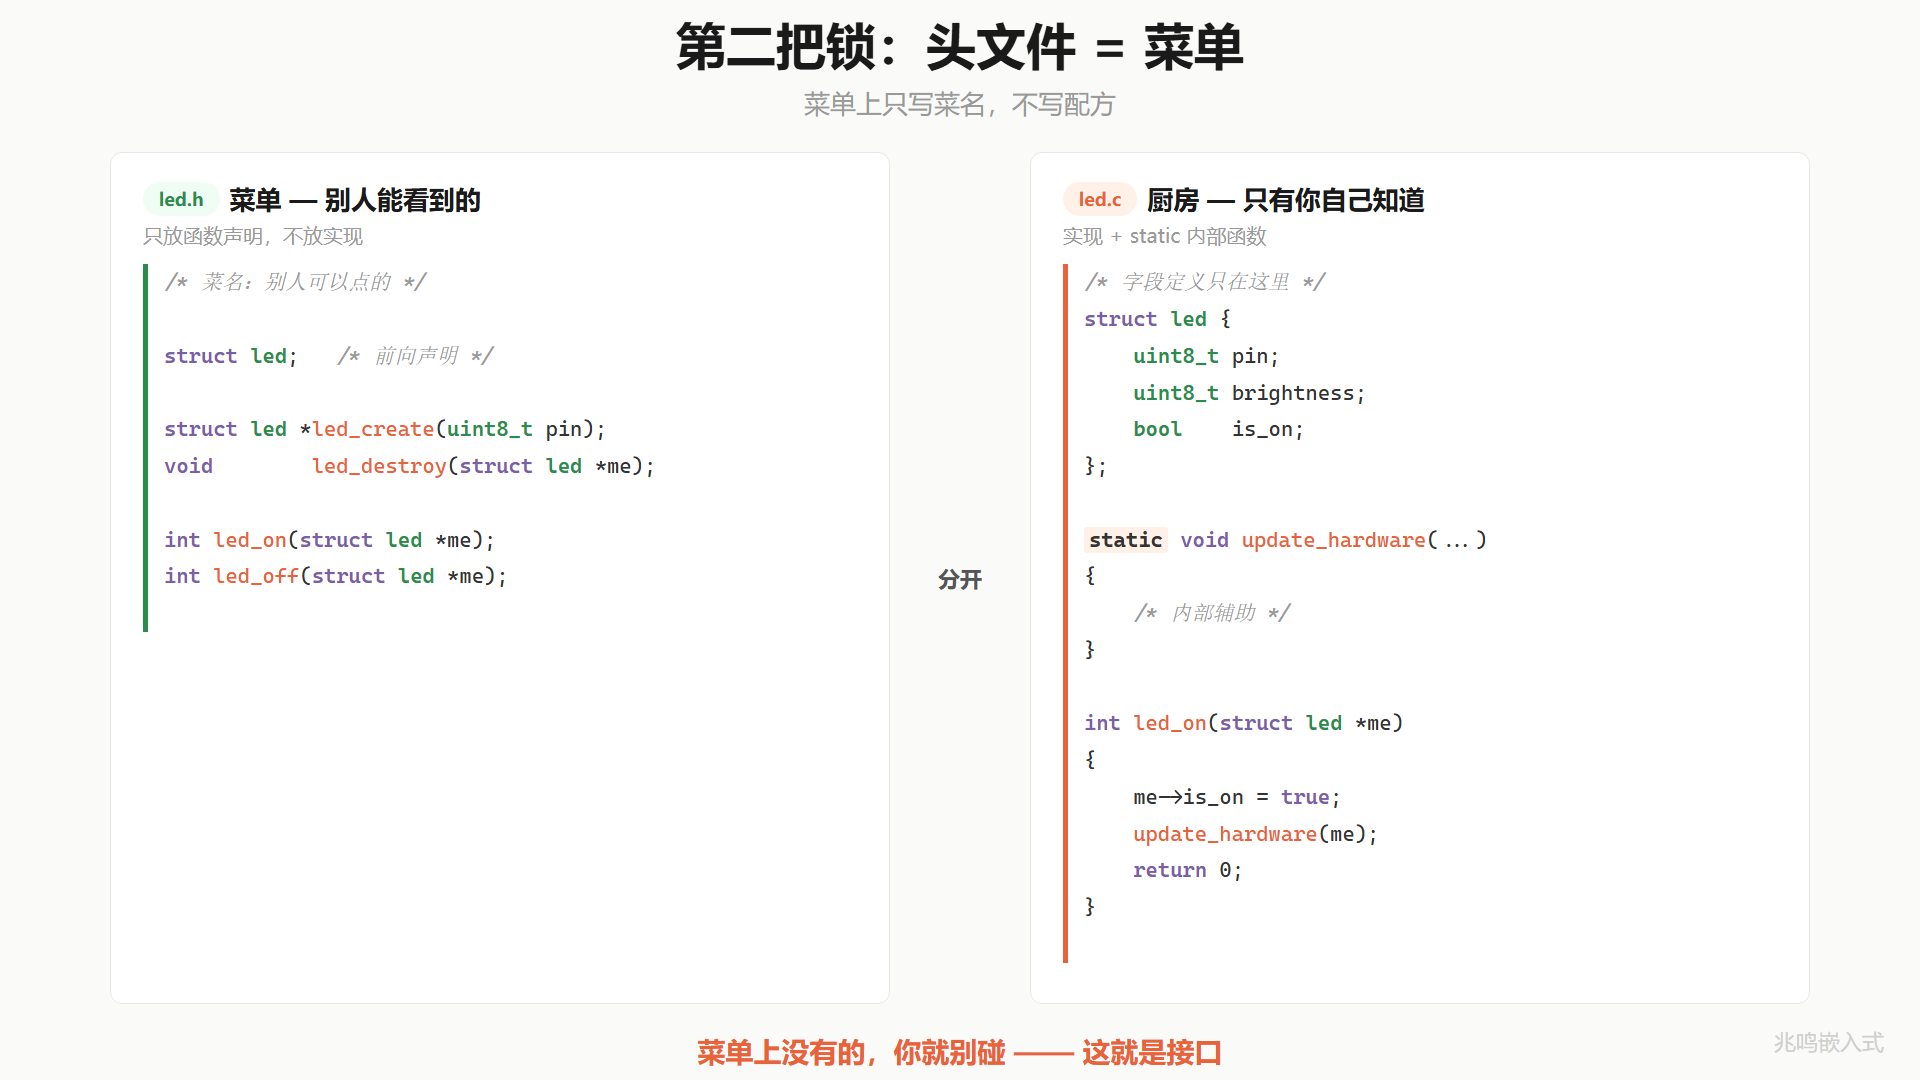
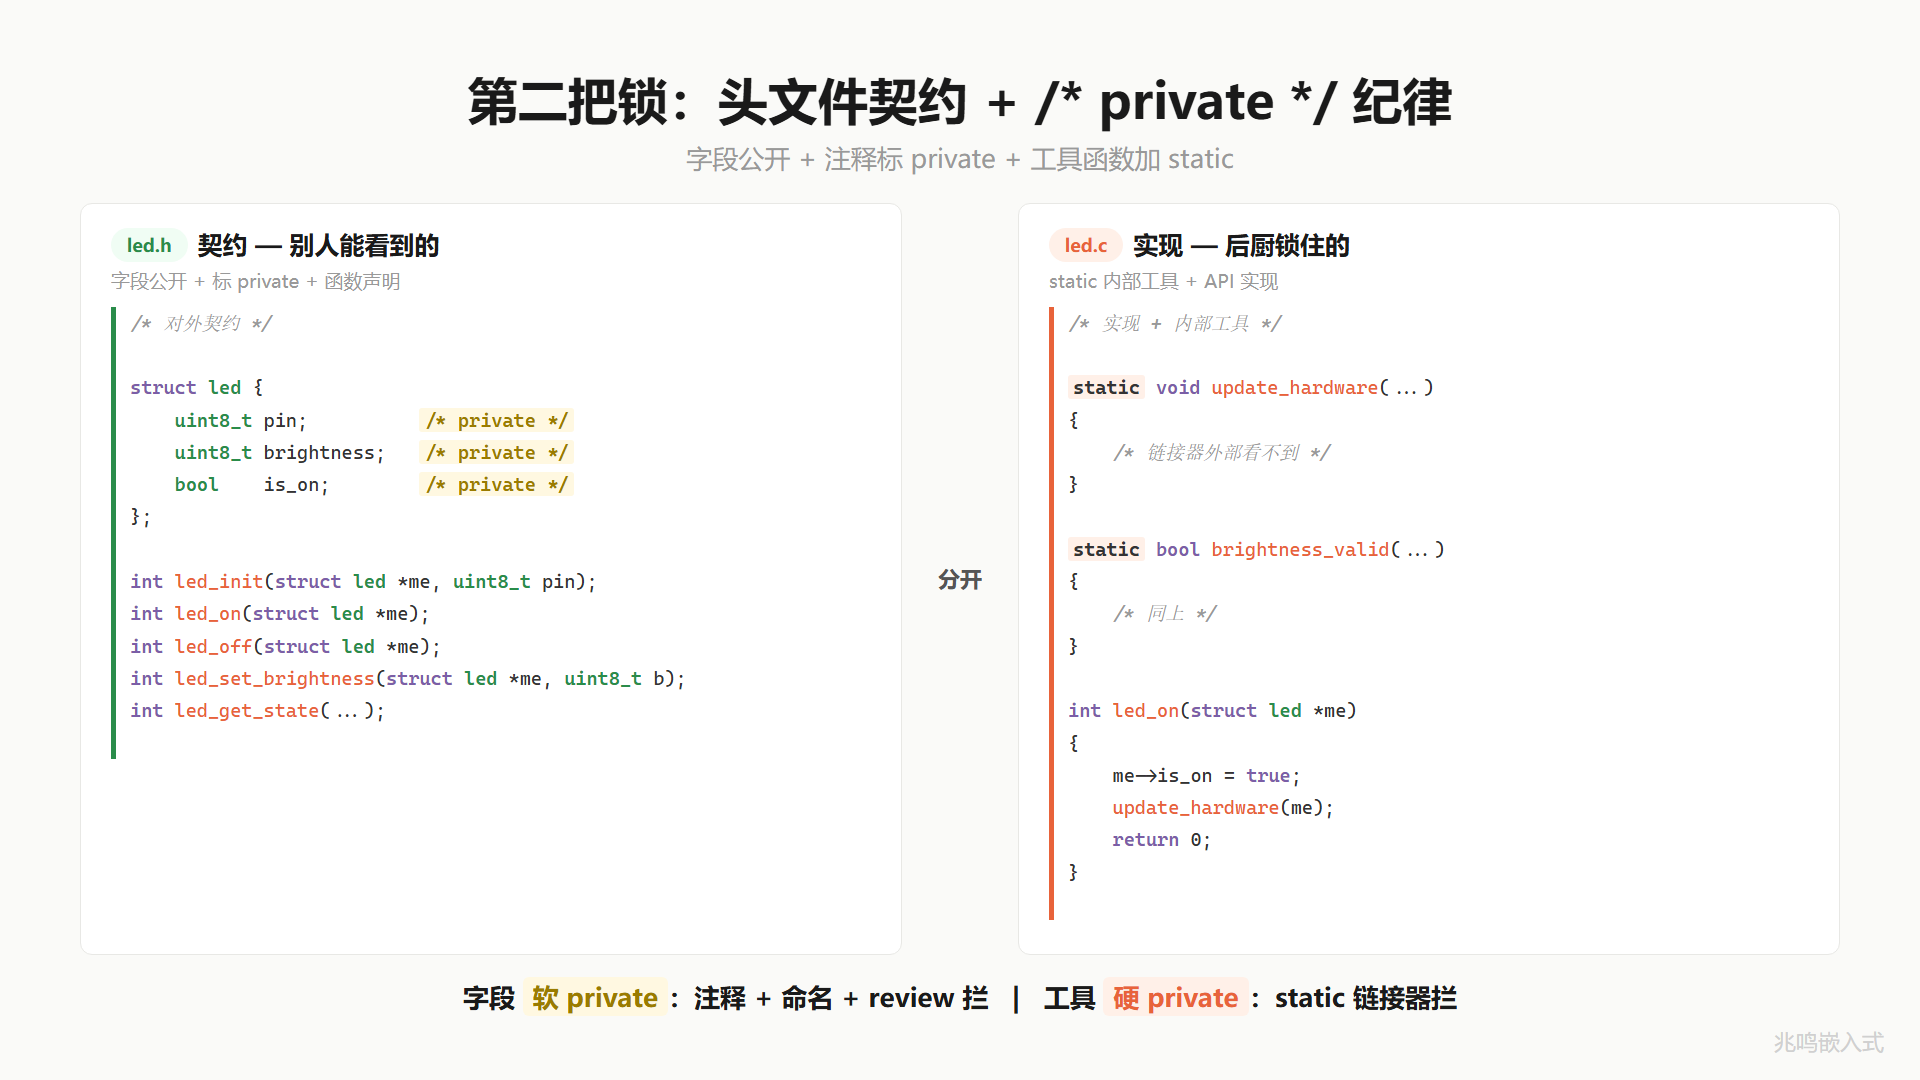
更新内容

diff --git a/book/04-工程威力/15-Platform抽象.md b/book/04-工程威力/15-Platform抽象.md
@@ -760,7 +760,7 @@ Platform 层 platform_*.c      物理操作
 
 中间件不是凭空多出来的"过度设计"。它的判据是：**当业务语义和硬件操作不是一对一映射的时候**，中间件就值得引入。"报警 → 三盏灯协同（红灯主报、绿灯熄灭、蜂鸣器响 1 秒）"是一对多映射，写在 app 里 app 就有了硬件知识，写在 led.c 里 led.c 就有了业务知识，都不对。中间件吸收这个错配。
 
-ch15 的配套代码没有中间件层（教学简化），ch19 的工业实战章会展开一个完整的 indicator 中间件案例。
+ch15 的配套代码没有中间件层（教学简化）。ch19 的工业实战章会列出主控板用到的几个中间件库（环形缓冲、shell、日志、按键），看一眼工业代码里这一层是什么形态。
 
 ### 15.10.10 platform_ops 的字段规模
 
@@ -802,7 +802,7 @@ struct platform_ops {
 
 20-30 个字段。每家芯片提供一份完整实现。
 
-字段太多了拆不拆？看你项目。SOLID 接口隔离原则会建议拆成 `gpio_ops / i2c_ops / spi_ops / ...` 多个小表。Linux 内核走的就是这条路（没有一个大 platform_ops，而是一堆 subsystem 各自的 ops 表）。本书 ch16 会展开 Linux 的多个 ops 表。
+字段太多了拆不拆？看你项目。SOLID 接口隔离原则会建议拆成 `gpio_ops / i2c_ops / spi_ops / ...` 多个小表。Linux 内核走的就是这条路（没有一个大 platform_ops，而是一堆 subsystem 各自的 ops 表）。本书 ch16 会展开 Linux 的两组典型 ops 表（`gpio_chip` / `file_operations`）。
 
 ## 15.11 你现在的代码在 STM32 上长什么样
 

diff --git a/book/03-多态/11-多态完整图景.md b/book/03-多态/11-多态完整图景.md
@@ -150,7 +150,7 @@ void platform_gpio_deinit(uint8_t pin);
 bool platform_gpio_read(uint8_t pin);
 ```
 
-每章的 STM32 / Linux snippet 都告诉你这是教学简化版。真正工业级 platform 抽象用 ops 表。第 11 章演化出 vptr 之后，就把这个承诺兑现。
+每章的 STM32 / Linux snippet 都告诉你这是教学简化版。真正工业级 platform 抽象用 ops 表。本章演化出 vptr 之后，就把这个承诺兑现。
 
 兑现的方式有讲究：**对外**这 4 个函数签名一字不动，**对内**从直接实现演化成 ops dispatch。驱动层、应用层永远只看到这 4 个签名，看不到下面的 ops 表。
 

diff --git a/book/05-工业实战/20-子控案例.md b/book/05-工业实战/20-子控案例.md
@@ -258,7 +258,7 @@ typedef struct {
 
 IFX007T 是英飞凌一颗 H 桥驱动芯片。两个控制引脚 + 两个使能引脚。`motor_move(UP)` 在子类里就是把 `ctrl_1_pin` 拉高、`ctrl_2_pin` 拉低、两个 sleep 拉高使能；`motor_move(DOWN)` 反过来；`motor_move(STOP)` 把两个 ctrl 都拉低。简单到几行 GPIO 操作就完成。
 
-> 仓库里 `v_motor_ifx007t.h` 是产品级版本，子类 struct 字段更多（两路 PWM 设备 + 两个减速区限位开关 + 一路 IS 电流采样 ADC + 工作线程 + 周期定时器 + 软启动 / 加减速 / 故障检测的运行时状态），上面这块代码是把它压成"OOP 抽象骨架"的教学最小核。产品代码里 `ctrl_1` / `ctrl_2` 走的是 PWM 调速而不是 GPIO 推挽，但抽象层面就是控制 H 桥两路高边臂——子类内部具体怎么斩波怎么爬坡，基类层一字看不见。完整产品级实现在 § 20.10.2 里展开。
+> 仓库里 `v_motor_ifx007t.h` 是产品级版本，子类 struct 字段更多（两路 PWM 设备 + 两个减速区限位开关 + 一路 IS 电流采样 ADC + 工作线程 + 周期定时器 + 软启动 / 加减速 / 故障检测的运行时状态），上面这块代码是把它压成"OOP 抽象骨架"的教学最小核。产品代码里 `ctrl_1` / `ctrl_2` 走的是 PWM 调速而不是 GPIO 推挽，但抽象层面就是控制 H 桥两路高边臂——子类内部具体怎么斩波怎么爬坡，基类层一字看不见。完整产品级实现在 20.10.2 节里展开。
 
 应用层接口风格完全统一：
 

diff --git a/book/preface.md b/book/preface.md
@@ -1,5 +1,7 @@
 # 前言
 
+体例约定：本书"第 N 部分"指五大主题分块（一-五，汉字数字），"第 N 章"指 1-20 编号章节（阿拉伯数字），"chXX"是同一章节的英文 ID，三者不混用。
+
 在我待过的项目里，常常看到这样的代码：
 
 三颗 LED 写三份几乎一模一样的函数。加一个新传感器，复制 5 个文件、改 30 个 `#define`。换一颗芯片像搬家，应用层全部重写，因为驱动层根本不是"驱动层"，是一堆"硬件操作的散装代码"。

diff --git a/book/附录/C-Linux完整工程.md b/book/附录/C-Linux完整工程.md
@@ -14,7 +14,7 @@
 
 工程功能：板上 4 颗 LED 流水灯（GPIO17 / GPIO27 / GPIO22 / GPIO23 BCM 编号，对应树莓派 4B 物理引脚 11 / 13 / 15 / 16）。硬件接法：每颗 LED 长脚串 220Ω 限流电阻接 GPIO 引脚，短脚接 GND。
 
-跑通全书所有 OOP 抽象，对应章节同附录 B § B.1。
+跑通全书所有 OOP 抽象，对应章节同附录 B 的 B.1 节。
 
 ## C.2 工程结构
 